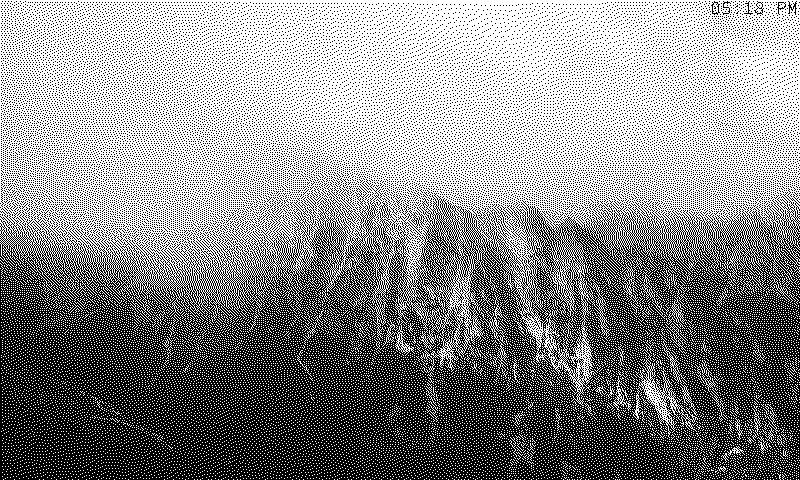
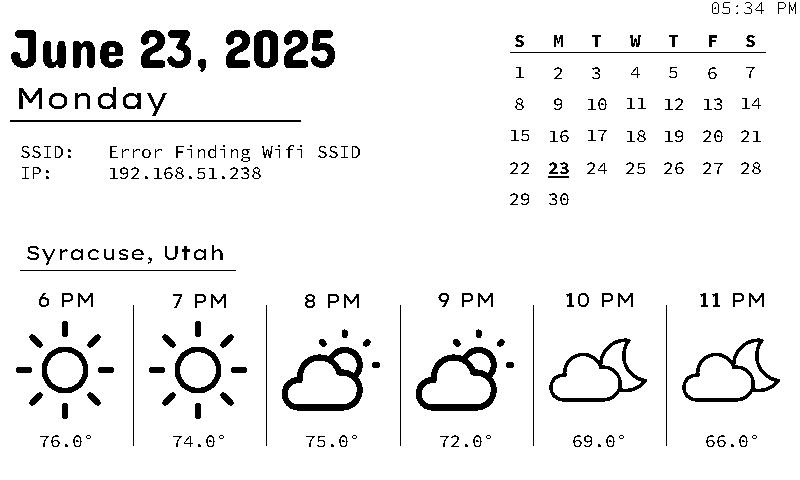
Updated Calendar

diff --git a/display.py b/display.py
@@ -61,7 +61,7 @@ def main():
 def genImage(width=800, height=480):
     Himage = Image.new('1', (width, height), 255)
 
-    drawRandImage = True
+    drawRandImage = False
 
     if drawRandImage:
         Himage = fetchRandomImage()
@@ -69,7 +69,7 @@ def genImage(width=800, height=480):
     draw = ImageDraw.Draw(Himage)
     
     now = datetime.now()
-    
+
     if (not drawRandImage):
         getCalendar(draw)
         getWeather(draw, Himage)
@@ -233,7 +233,6 @@ def getCalendar(draw: ImageDraw.ImageDraw):
 
     draw.line((x - 10, y + 12, x + width - 25, y + 12), "black", 1)
 
-    # subFont.set_variation_by_name("Bold")
     SSmono.set_variation_by_name("Bold")
 
     for day in days:
@@ -243,6 +242,9 @@ def getCalendar(draw: ImageDraw.ImageDraw):
         ), day, "black", SSmono, anchor="mm")
 
         i += 1
+
+    if (month[0].count(0) == 6):
+        i -= 7
 
     for row in month:
         for day in row:
